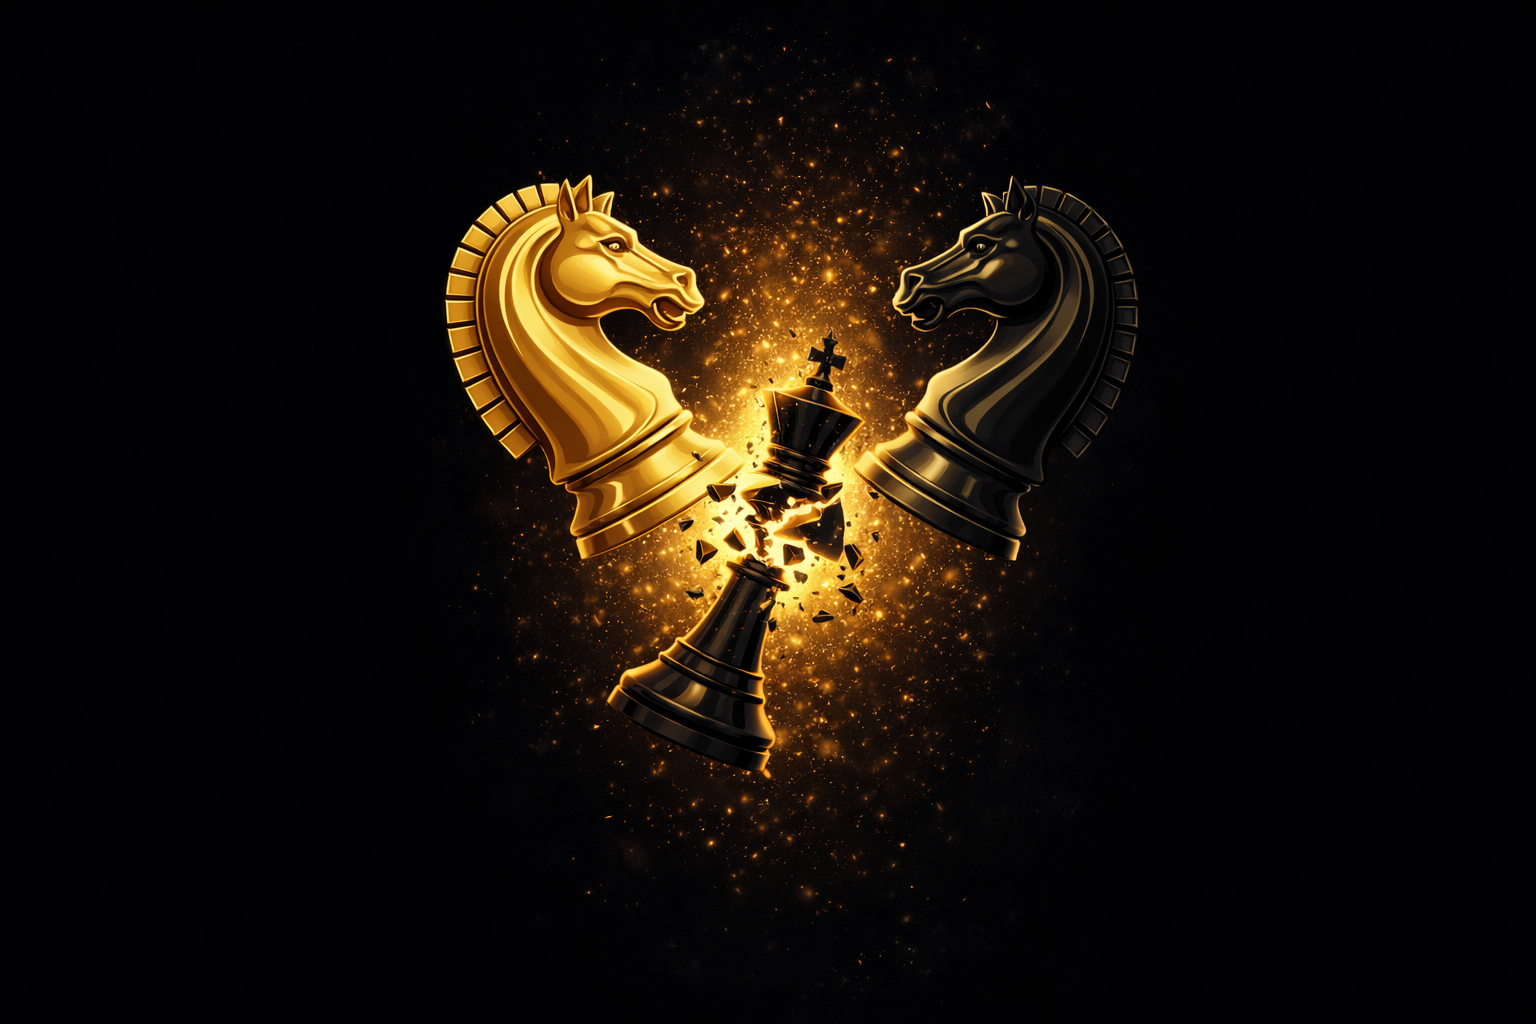
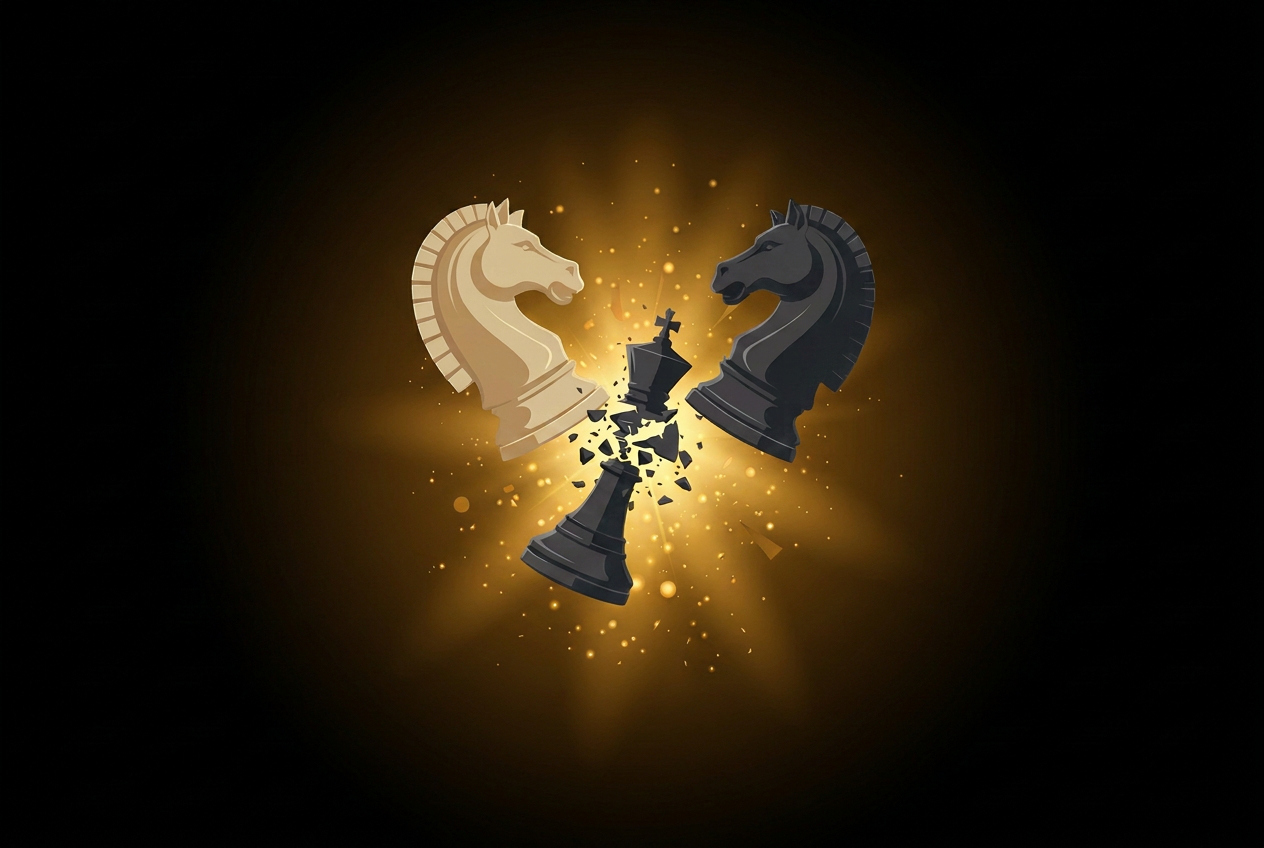
mejora en imagees

diff --git a/assets/css/main.css b/assets/css/main.css
@@ -267,7 +267,7 @@ a:hover { color: var(--gold-l); }
 .hero-badge {
   display: inline-flex; align-items: center; gap: 8px;
   padding: 7px 18px 7px 10px;
-  border: 1px solid var(--bgold);
+  border: 0px solid var(--bgold);
   border-radius: 50px;
   background: rgba(201,168,76,.04);
   font-size: 11px;
